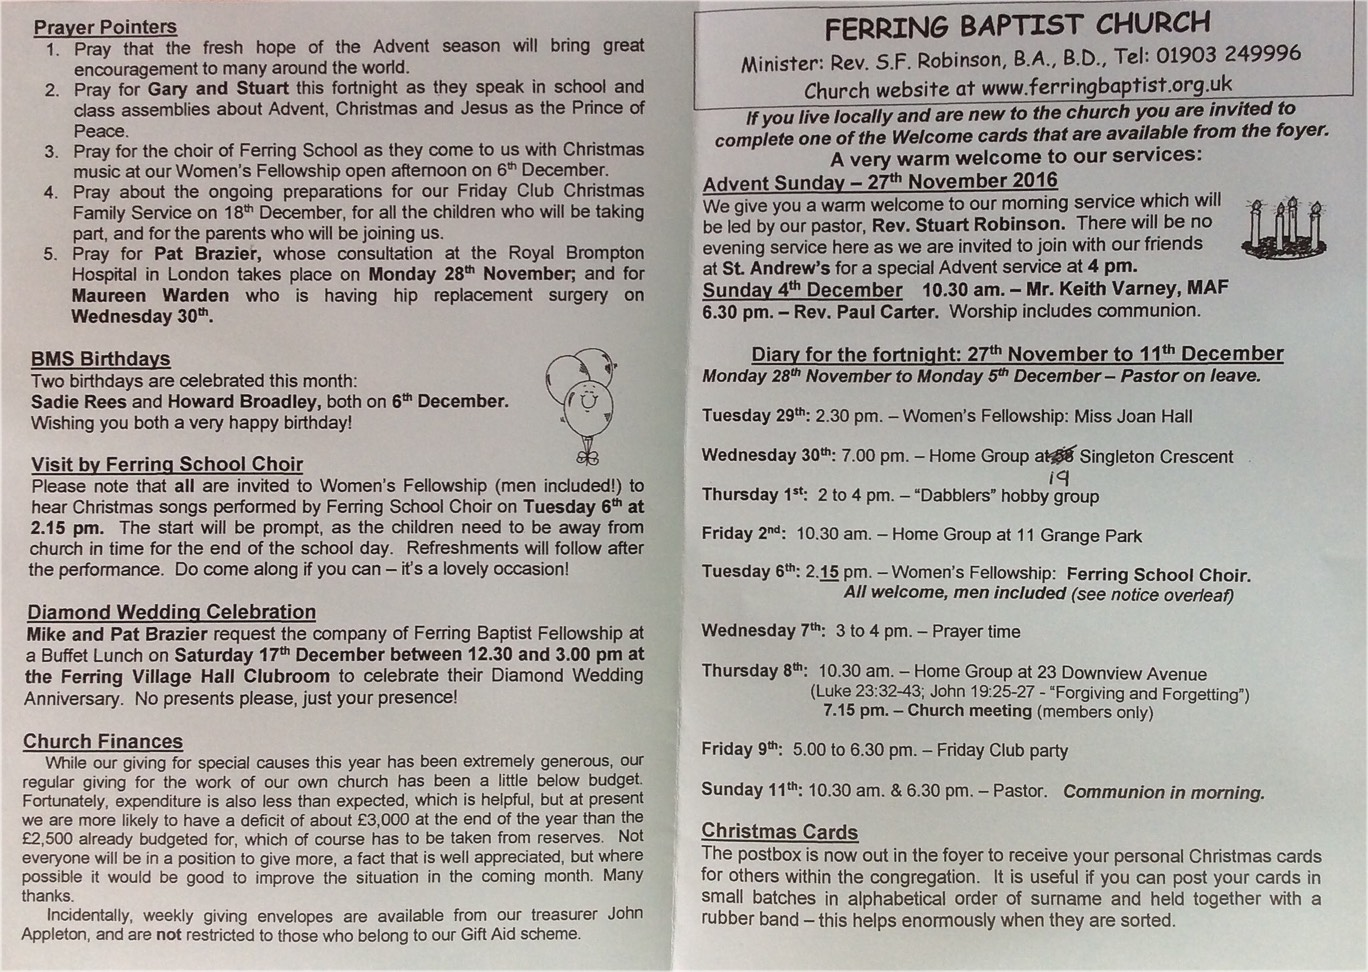
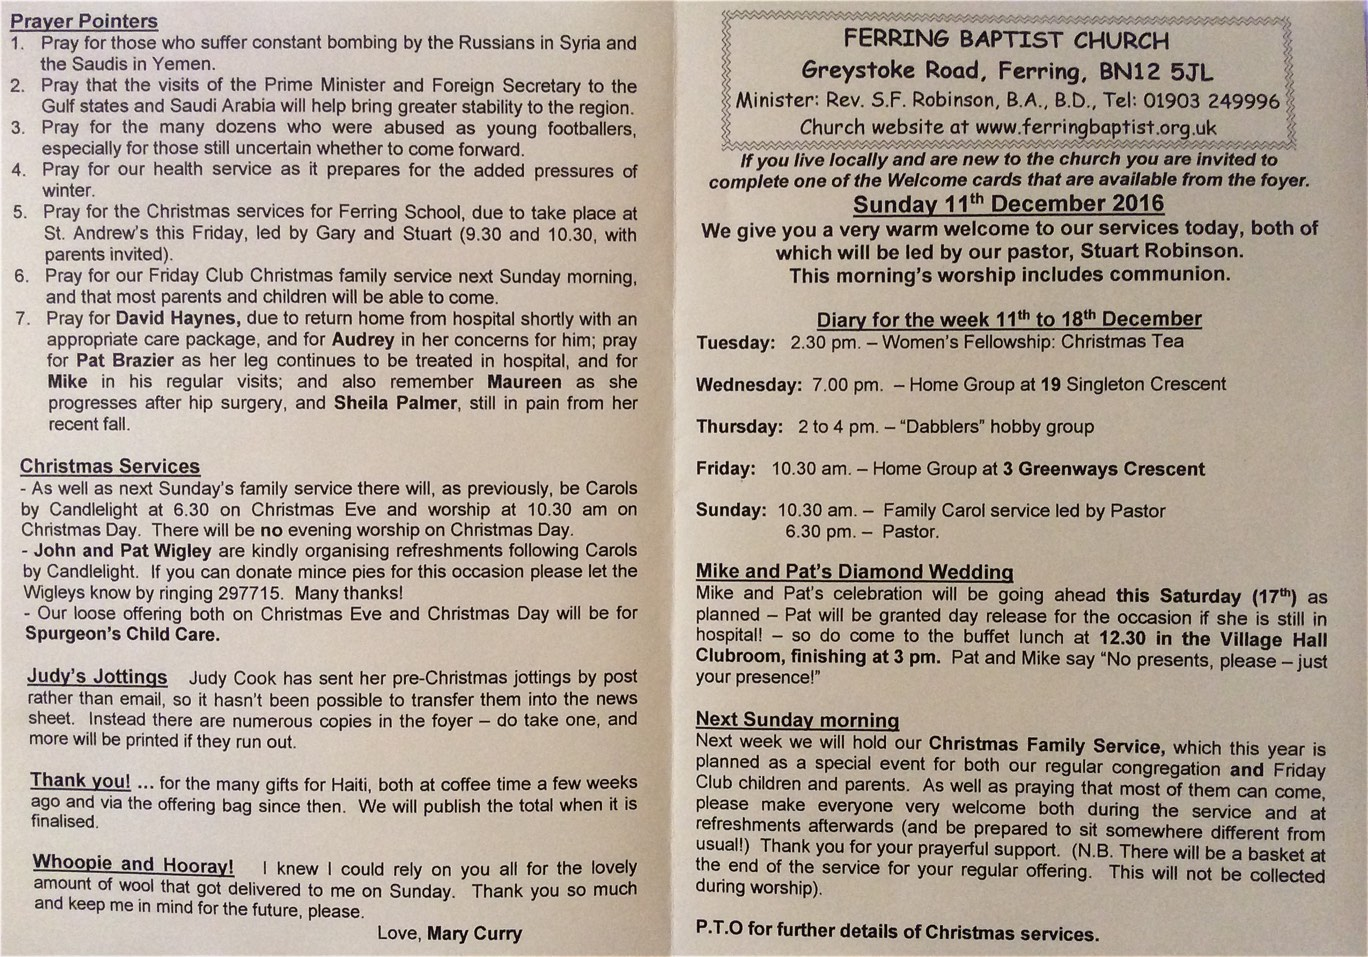
Weekly update

diff --git a/diary.php b/diary.php
@@ -2,11 +2,11 @@
 
 <?php include("header.php"); ?>
 			<div id="content">
-				<h1>Two Week Diary</h1>
+				<h1>This Week's Diary</h1>
 
 				<p class="centre">(For a long-term look at our church, see the <a href="upcoming.php">Coming Weeks page</a>)</p>
 
-				<p class="centre"><strong>Schedule for the weeks 27th November to 11th December</strong></p>
+				<p class="centre"><strong>Schedule for the week 11th to 18th December</strong></p>
 
 				<table class="styled" summary="Schedule for events in the coming week(s)">
 					<thead>
@@ -18,63 +18,34 @@
 					</thead>
 					<tbody>
 						<tr class="odd">
-							<th scope="row">Tuesday 29th<br />2:30 P.M.</th>
-							<td>Women's Fellowship:<br />Miss Joan Hall</td>
+							<th scope="row">Tuesday<br />2:30 P.M.</th>
+							<td>Women's Fellowship:<br />Christmas Tea</td>
 							<td></td>
 						</tr>
 						<tr>
-							<th scope="row">Wednesday 30th<br />7:00 P.M.</th>
-							<td>Home Group at<br /><em>Edna's</em></td>
+							<th scope="row">Wednesday<br />7:00 P.M.</th>
+							<td>Home Group at<br />Edna's</td>
 							<td></td>
 						</tr>
 						<tr class="odd">
-							<th scope="row">Thursday 1st<br />2:00-4:00 P.M.</th>
+							<th scope="row">Thursday<br />2:00-4:00 P.M.</th>
 							<td>"Dabblers" Hobby Group</td>
 							<td>All welcome!</td>
 						</tr>
 						<tr>
-							<th scope="row">Friday 2nd<br />10:30 A.M.</th>
-							<td>Home Group at<br />Bryan &amp; Audrey's</td>
+							<th scope="row">Friday<br />10:30 A.M.</th>
+							<td>Home Group at<br />John &amp; Julie's</td>
 							<td></td>
 						</tr>
 						<tr class="odd">
-							<th scope="row">Sunday 4th<br />10:30 A.M.<br />6:30 P.M.</th>
-							<td>Sunday Services</td>
-							<td>Morning worship will be led by<br />
-							Mr. Keith Varney (MAF)<br />
-							Evening worship will be led by<br />
-							Rev. Paul Carter<br />
-							Evening worship includes communion</td>
-						</tr>
-						<tr>
-							<th scope="row">Tuesday 6th<br />2:15 P.M.</th>
-							<td><strong>Women's Fellowship:<br />Ferring School Choir</strong></td>
-							<td>Open meeting, all welcome, men included!</td>
-						</tr>
-						<tr class="odd">
-							<th scope="row">Wednesday 7th<br />3:00-4:00 P.M.</th>
-							<td>Prayer time</td>
+							<th scope="row">Sunday<br />10:30 A.M.</th>
+							<td><strong>Family Carol Service</strong></td>
 							<td></td>
 						</tr>
 						<tr>
-							<th scope="row">Thursday 8th<br /> 10:30 A.M.</th>
-							<td>Home Group at<br />Mike &amp; Pat's</td>
-							<td>Luke 23:32-43; John 19:25-27 - <br />"Forgiving and Forgetting"</td>
-						</tr>
-						<tr class="odd">
-							<th scope="row">Thursday 8th<br /> 7:15 P.M.</th>
-							<td><strong>Church Meeting</strong></td>
-							<td>(Members only)</td>
-						</tr>
-						<tr>
-							<th scope="row">Friday 9th<br />5:00-6:30 P.M.</th>
-							<td><strong>Friday Club Christmas Party</strong></td>
+							<th scope="row">Sunday<br />6:30 P.M.</th>
+							<td>Evening service as usual</td>
 							<td></td>
-						</tr>
-						<tr class="odd">
-							<th scope="row">Sunday 11th<br />10:30 A.M.<br />6:30 P.M.</th>
-							<td>Sunday Services</td>
-							<td>Morning worship includes communion</td>
 						</tr>
 					</tbody>
 				</table>
